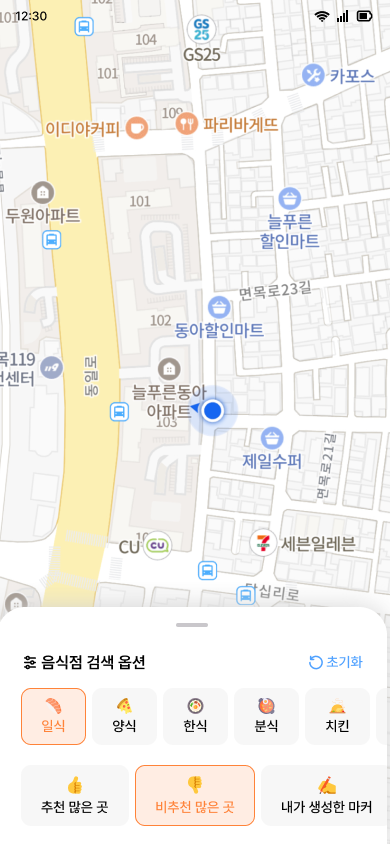
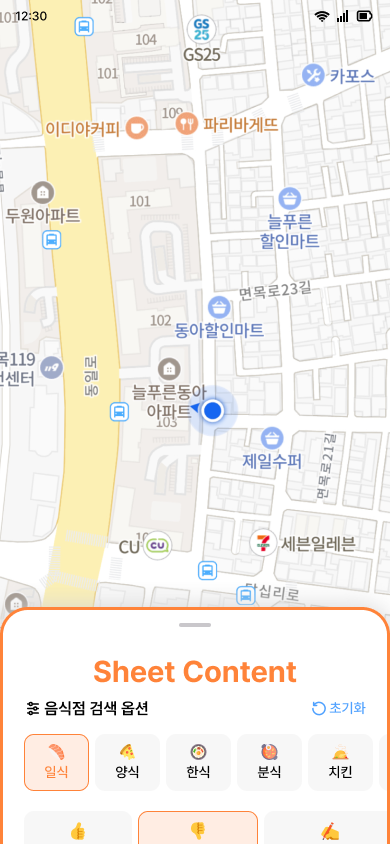
post: 글 작성

diff --git a/_site/categories/index.html b/_site/categories/index.html
@@ -40,13 +40,13 @@
 <meta property="og:url" content="http://localhost:4000/categories/" />
 <meta property="og:site_name" content="Yoon-Min" />
 <meta property="og:type" content="article" />
-<meta property="article:published_time" content="2025-05-13T15:54:10+09:00" />
+<meta property="article:published_time" content="2025-05-15T17:39:17+09:00" />
 <meta name="twitter:card" content="summary" />
 <meta property="twitter:title" content="Categories" />
 <meta name="twitter:site" content="@" />
 <meta name="google-site-verification" content="DtdtL8q6UjIspU6eT9hV-syrKwp-Uk3OsKKDlH3p0nE" />
 <script type="application/ld+json">
-{"@context":"https://schema.org","@type":"BlogPosting","dateModified":"2025-05-13T15:54:10+09:00","datePublished":"2025-05-13T15:54:10+09:00","description":"모르는 게 많으니까 기록하는 공간","headline":"Categories","mainEntityOfPage":{"@type":"WebPage","@id":"http://localhost:4000/categories/"},"url":"http://localhost:4000/categories/"}</script>
+{"@context":"https://schema.org","@type":"BlogPosting","dateModified":"2025-05-15T17:39:17+09:00","datePublished":"2025-05-15T17:39:17+09:00","description":"모르는 게 많으니까 기록하는 공간","headline":"Categories","mainEntityOfPage":{"@type":"WebPage","@id":"http://localhost:4000/categories/"},"url":"http://localhost:4000/categories/"}</script>
 <!-- End Jekyll SEO tag -->
 
   
@@ -777,6 +777,11 @@
         
         
         
+      <li><a href="/posts/ComposeBottomSheet/">Android Compose - Material Design을 이용한 Bottom Sheet 구현하기</a></li>
+      
+        
+        
+        
       <li><a href="/posts/sqld-review/">25년 56회 SQLD 합격 회고</a></li>
       
         
@@ -793,11 +798,6 @@
         
         
       <li><a href="/posts/ComposeSnapshot/">Android Compose UI State - Sanpshot 시스템</a></li>
-      
-        
-        
-        
-      <li><a href="/posts/ComposeStateDetection/">Android Compose UI State - MutableState  상태 자동 업데이트</a></li>
       
     </ul>
   </div> <!-- #access-lastmod -->

diff --git a/_site/archives/index.html b/_site/archives/index.html
@@ -40,13 +40,13 @@
 <meta property="og:url" content="http://localhost:4000/archives/" />
 <meta property="og:site_name" content="Yoon-Min" />
 <meta property="og:type" content="article" />
-<meta property="article:published_time" content="2025-05-13T15:54:10+09:00" />
+<meta property="article:published_time" content="2025-05-15T17:39:17+09:00" />
 <meta name="twitter:card" content="summary" />
 <meta property="twitter:title" content="Archives" />
 <meta name="twitter:site" content="@" />
 <meta name="google-site-verification" content="DtdtL8q6UjIspU6eT9hV-syrKwp-Uk3OsKKDlH3p0nE" />
 <script type="application/ld+json">
-{"@context":"https://schema.org","@type":"BlogPosting","dateModified":"2025-05-13T15:54:10+09:00","datePublished":"2025-05-13T15:54:10+09:00","description":"모르는 게 많으니까 기록하는 공간","headline":"Archives","mainEntityOfPage":{"@type":"WebPage","@id":"http://localhost:4000/archives/"},"url":"http://localhost:4000/archives/"}</script>
+{"@context":"https://schema.org","@type":"BlogPosting","dateModified":"2025-05-15T17:39:17+09:00","datePublished":"2025-05-15T17:39:17+09:00","description":"모르는 게 많으니까 기록하는 공간","headline":"Archives","mainEntityOfPage":{"@type":"WebPage","@id":"http://localhost:4000/archives/"},"url":"http://localhost:4000/archives/"}</script>
 <!-- End Jekyll SEO tag -->
 
   
@@ -1100,6 +1100,11 @@
         
         
         
+      <li><a href="/posts/ComposeBottomSheet/">Android Compose - Material Design을 이용한 Bottom Sheet 구현하기</a></li>
+      
+        
+        
+        
       <li><a href="/posts/sqld-review/">25년 56회 SQLD 합격 회고</a></li>
       
         
@@ -1116,11 +1121,6 @@
         
         
       <li><a href="/posts/ComposeSnapshot/">Android Compose UI State - Sanpshot 시스템</a></li>
-      
-        
-        
-        
-      <li><a href="/posts/ComposeStateDetection/">Android Compose UI State - MutableState  상태 자동 업데이트</a></li>
       
     </ul>
   </div> <!-- #access-lastmod -->

diff --git a/_site/tags/index.html b/_site/tags/index.html
@@ -40,13 +40,13 @@
 <meta property="og:url" content="http://localhost:4000/tags/" />
 <meta property="og:site_name" content="Yoon-Min" />
 <meta property="og:type" content="article" />
-<meta property="article:published_time" content="2025-05-13T15:54:10+09:00" />
+<meta property="article:published_time" content="2025-05-15T17:39:17+09:00" />
 <meta name="twitter:card" content="summary" />
 <meta property="twitter:title" content="Tags" />
 <meta name="twitter:site" content="@" />
 <meta name="google-site-verification" content="DtdtL8q6UjIspU6eT9hV-syrKwp-Uk3OsKKDlH3p0nE" />
 <script type="application/ld+json">
-{"@context":"https://schema.org","@type":"BlogPosting","dateModified":"2025-05-13T15:54:10+09:00","datePublished":"2025-05-13T15:54:10+09:00","description":"모르는 게 많으니까 기록하는 공간","headline":"Tags","mainEntityOfPage":{"@type":"WebPage","@id":"http://localhost:4000/tags/"},"url":"http://localhost:4000/tags/"}</script>
+{"@context":"https://schema.org","@type":"BlogPosting","dateModified":"2025-05-15T17:39:17+09:00","datePublished":"2025-05-15T17:39:17+09:00","description":"모르는 게 많으니까 기록하는 공간","headline":"Tags","mainEntityOfPage":{"@type":"WebPage","@id":"http://localhost:4000/tags/"},"url":"http://localhost:4000/tags/"}</script>
 <!-- End Jekyll SEO tag -->
 
   
@@ -737,6 +737,11 @@
         
         
         
+      <li><a href="/posts/ComposeBottomSheet/">Android Compose - Material Design을 이용한 Bottom Sheet 구현하기</a></li>
+      
+        
+        
+        
       <li><a href="/posts/sqld-review/">25년 56회 SQLD 합격 회고</a></li>
       
         
@@ -753,11 +758,6 @@
         
         
       <li><a href="/posts/ComposeSnapshot/">Android Compose UI State - Sanpshot 시스템</a></li>
-      
-        
-        
-        
-      <li><a href="/posts/ComposeStateDetection/">Android Compose UI State - MutableState  상태 자동 업데이트</a></li>
       
     </ul>
   </div> <!-- #access-lastmod -->

diff --git a/_site/about/index.html b/_site/about/index.html
@@ -40,13 +40,13 @@
 <meta property="og:url" content="http://localhost:4000/about/" />
 <meta property="og:site_name" content="Yoon-Min" />
 <meta property="og:type" content="article" />
-<meta property="article:published_time" content="2025-05-13T15:54:10+09:00" />
+<meta property="article:published_time" content="2025-05-15T17:39:17+09:00" />
 <meta name="twitter:card" content="summary" />
 <meta property="twitter:title" content="About" />
 <meta name="twitter:site" content="@" />
 <meta name="google-site-verification" content="DtdtL8q6UjIspU6eT9hV-syrKwp-Uk3OsKKDlH3p0nE" />
 <script type="application/ld+json">
-{"@context":"https://schema.org","@type":"WebSite","dateModified":"2025-05-13T15:54:10+09:00","datePublished":"2025-05-13T15:54:10+09:00","description":"모르는 게 많으니까 기록하는 공간","headline":"About","name":"SeungMinYoon","sameAs":["https://github.com/Yoon-Min"],"url":"http://localhost:4000/about/"}</script>
+{"@context":"https://schema.org","@type":"WebSite","dateModified":"2025-05-15T17:39:17+09:00","datePublished":"2025-05-15T17:39:17+09:00","description":"모르는 게 많으니까 기록하는 공간","headline":"About","name":"SeungMinYoon","sameAs":["https://github.com/Yoon-Min"],"url":"http://localhost:4000/about/"}</script>
 <!-- End Jekyll SEO tag -->
 
   
@@ -912,6 +912,11 @@
         
         
         
+      <li><a href="/posts/ComposeBottomSheet/">Android Compose - Material Design을 이용한 Bottom Sheet 구현하기</a></li>
+      
+        
+        
+        
       <li><a href="/posts/sqld-review/">25년 56회 SQLD 합격 회고</a></li>
       
         
@@ -928,11 +933,6 @@
         
         
       <li><a href="/posts/ComposeSnapshot/">Android Compose UI State - Sanpshot 시스템</a></li>
-      
-        
-        
-        
-      <li><a href="/posts/ComposeStateDetection/">Android Compose UI State - MutableState  상태 자동 업데이트</a></li>
       
     </ul>
   </div> <!-- #access-lastmod -->

diff --git a/_site/index.html b/_site/index.html
@@ -1138,6 +1138,11 @@ Compose Navigation 포스팅 현황
         
         
         
+      <li><a href="/posts/ComposeBottomSheet/">Android Compose - Material Design을 이용한 Bottom Sheet 구현하기</a></li>
+      
+        
+        
+        
       <li><a href="/posts/sqld-review/">25년 56회 SQLD 합격 회고</a></li>
       
         
@@ -1154,11 +1159,6 @@ Compose Navigation 포스팅 현황
         
         
       <li><a href="/posts/ComposeSnapshot/">Android Compose UI State - Sanpshot 시스템</a></li>
-      
-        
-        
-        
-      <li><a href="/posts/ComposeStateDetection/">Android Compose UI State - MutableState  상태 자동 업데이트</a></li>
       
     </ul>
   </div> <!-- #access-lastmod -->

diff --git a/_site/404.html b/_site/404.html
@@ -453,6 +453,11 @@
         
         
         
+      <li><a href="/posts/ComposeBottomSheet/">Android Compose - Material Design을 이용한 Bottom Sheet 구현하기</a></li>
+      
+        
+        
+        
       <li><a href="/posts/sqld-review/">25년 56회 SQLD 합격 회고</a></li>
       
         
@@ -469,11 +474,6 @@
         
         
       <li><a href="/posts/ComposeSnapshot/">Android Compose UI State - Sanpshot 시스템</a></li>
-      
-        
-        
-        
-      <li><a href="/posts/ComposeStateDetection/">Android Compose UI State - MutableState  상태 자동 업데이트</a></li>
       
     </ul>
   </div> <!-- #access-lastmod -->

diff --git a/_site/sw.js b/_site/sw.js
@@ -1,6 +1,6 @@
 self.importScripts('/assets/js/data/swcache.js');
 
-const cacheName = 'chirpy-20250513.155413';
+const cacheName = 'chirpy-20250515.173919';
 
 function verifyDomain(url) {
     for (const domain of allowedDomains) {

diff --git a/_posts/2025-05-13-ComposeBottomSheet.md b/_posts/2025-05-13-ComposeBottomSheet.md
@@ -97,7 +97,7 @@ fun BottomSheetScaffold(
 
 ### sheetContent
 
-![1](/assets/img/post/branch10/4.png)
+![1](/assets/img/post/branch10/4.png){:.normal}
 
 바텀 시트에 표시될 콘텐츠를 정의하는 컴포저블입니다. 위 사진처럼 지도와 마커가 배경을 차지하고 해당 영역과 상호작용(마커 필터링)하기 위한 컴포저블을 이곳에 정의합니다.
 
@@ -130,6 +130,32 @@ val SheetPeekHeight = 56.dp
 		
 
 ### sheetDragHandle
+
+![1](/assets/img/post/branch10/5.png)
+
+사용자가 바텀 시트를 끌어 올릴 수 있는 시각적 요소입니다. 위 사진은 기본 형태의 드래그 핸들이며 커스텀이 가능합니다. 드래그 핸들의 사이즈는 `32X4`, 버티컬 패딩 값은 `22Dp` 입니다. 피그마 디자인 페이지에는 `16Dp` 로 설정되어 있는데 최근에 수치를 조정한 것 같습니다.
+
+		
+
+### content
+
+![1](/assets/img/post/branch10/6.png){:.normal}
+
+바텀 시트의 배경을 차지하는 메인 콘텐츠 영역입니다. 이곳에 바텀 시트와 상호작용할 수 있는 내용을 정의합니다. 바텀 시트가 지도상에 존재하는 마커를 필터링하는 역할을 하므로 배경 영역에는 지도와 마커를 표시합니다.
+
+		
+
+## PeekHeight 세부조정하기
+
+`Content` 및 `SheetContent` 영역의 컴포저블 제작은 완료됐다고 가정하고 다음 작업으로 넘어 가겠습니다. 이제 바텀 시트의 초기 높이 값을 지정해야 합니다. 기능 요구사항과 같이 음식점 검색 옵션 텍스트 헤더만 보이게 높이를 정확하게 설정해야 합니다. 
+
+![1](/assets/img/post/branch10/7.png){: width="300" .normal}![1](/assets/img/post/branch10/8.png){: width="300" .normal}
+
+하지만 사용자가 사용하는 디바이스 내 바텀 네비게이션 타입에 따라 필요한 높이 값이 다른 변수가 존재합니다. 동작 탐색 모드 기반 바텀 네비게이션은 높이가 매우 낮은 반면에 N버튼 탐색 모드는 높이가 매우 큽니다.
+
+
+
+ 
 
 
 
